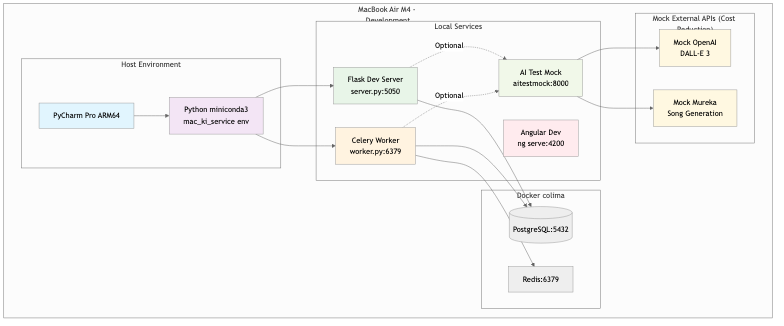
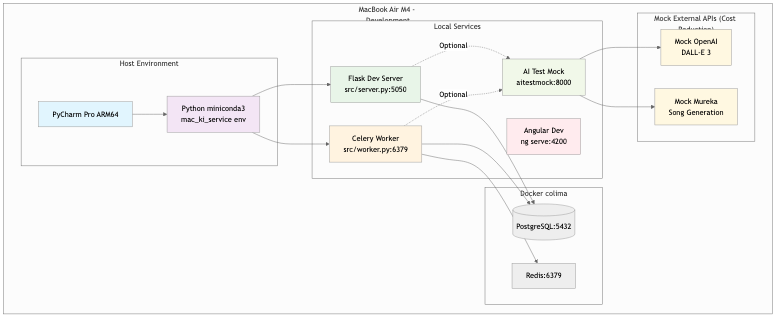
layout change to side menu

diff --git a/docs/README.md b/docs/README.md
@@ -107,7 +107,7 @@ Das Mac KI-Service System ist eine persönliche KI-basierte Multimedia-Generieru
 
 ### 3.1 Fachlicher Kontext
 
-![Fachlicher Kontext](images/3.1_fachlicher_kontext.png)
+<img src="images/3.1_fachlicher_kontext.png" alt="Fachlicher Kontext" style="zoom:150%;" />
 
 *Abbildung 3.1: Fachlicher Kontext - Überblick über die wichtigsten Akteure und Systeme*
 
@@ -135,12 +135,15 @@ Das Mac KI-Service System ist eine persönliche KI-basierte Multimedia-Generieru
 - **Containerisiert**: Docker für konsistente Deployments
 
 ### 4.2 Technologie-Stack
-- **Frontend**: Angular 18.2.13 + TypeScript + Angular Material + SCSS
-- **Backend**: Python Flask + SQLAlchemy + Alembic
-- **Async Processing**: Celery + Redis
-- **Database**: PostgreSQL 15
-- **Proxy**: Nginx (Produktion)
-- **Container**: Docker + Docker Compose
+- **Frontend**: Angular 18.2.13 + TypeScript + Angular Material + SCSS + RxJS
+- **Backend**: Python Flask 3.1.2 + SQLAlchemy 2.0 + Pydantic 2.0 + Alembic 1.13
+- **API Documentation**: Flask-APISpec + OpenAPI/Swagger
+- **Authentication**: Flask-CORS + PyJWT + BCrypt
+- **Async Processing**: Celery 5.4 + Redis 5.0
+- **Database**: PostgreSQL 15 + psycopg2-binary
+- **Web Server**: Gunicorn (Produktion), Flask Dev Server (Entwicklung)
+- **Proxy**: Nginx 1.23.3 (Produktion)
+- **Container**: Docker + Docker Compose (Colima auf macOS)
 
 ---
 
@@ -148,7 +151,7 @@ Das Mac KI-Service System ist eine persönliche KI-basierte Multimedia-Generieru
 
 ### 5.1 Systemübersicht
 
-![Systemübersicht](images/5.1_systemuebersicht.png)
+<img src="images/5.1_systemuebersicht.png" alt="Systemübersicht" style="zoom:150%;" />
 
 *Abbildung 5.1: Systemübersicht - Architektonische Schichten und Komponenten*
 
@@ -156,40 +159,52 @@ Das Mac KI-Service System ist eine persönliche KI-basierte Multimedia-Generieru
 
 #### 5.2.1 aiwebui (Frontend)
 
-![Angular Projektstruktur](images/5.2.1_angular_projektstruktur.png)
+<img src="images/5.2.1_angular_projektstruktur.png" alt="Angular Projektstruktur" style="zoom: 67%;" />
 
-*Abbildung 5.2.1: Angular Projektstruktur - Komponenten, Services und Module des Frontend*
+*Abbildung 5.2.1: Angular Projektstruktur - Komponenten, Services und Module dess Frontend*
 
-- **Technologie**: Angular 18 + TypeScript + SCSS
-- **Komponenten**:
-  - `image-generator`: UI für Bildgenerierung
-  - `image-view`: Anzeige generierter Bilder
-  - `song-generator`: UI für Musikgenerierung
-  - `song-view`: Anzeige generierter Songs
-  - `song-profil`: Mureka Account-Informationen
-  - `settings`: Systemkonfiguration und Einstellungen
-  - `prompt-templates`: Template-Management für Prompts
+- **Technologie**: Angular 18.2.13 + TypeScript + SCSS + Angular Material
+- **Struktur**:
+  ```
+  src/app/
+  ├── components/    # Shared Components
+  ├── pages/         # Feature Pages
+  │   ├── image-generator/    # UI für Bildgenerierung
+  │   ├── image-view/         # Anzeige generierter Bilder
+  │   ├── song-generator/     # UI für Musikgenerierung
+  │   ├── song-view/          # Anzeige generierter Songs
+  │   ├── song-profile/       # Mureka Account-Informationen
+  │   ├── user-profile/       # Benutzerprofilseite
+  │   └── prompt-templates/   # Template-Management für Prompts
+  ├── services/      # API Services & Business Logic
+  ├── models/        # TypeScript Interfaces & Models
+  ├── pipes/         # Custom Angular Pipes
+  ├── guards/        # Route Guards
+  ├── interceptors/  # HTTP Interceptors
+  └── auth/          # Authentication Logic
+  ```
 - **Services**: API-Integration, Konfiguration, Prompt-Management, Notifications
 - **Shared Components**: Header, Footer, Detail-Panels, Audio-Player, Progress-Overlay
-- **Build**: `npm run build:prod` → Deployment nach `forwardproxy/html`
+- **Dependencies**: Angular Material, RxJS, ngx-cookie-service, compromise
+- **Build**: `npm run build:prod` → Deployment nach `forwardproxy/html/aiwebui`
 
 #### 5.2.2 aiproxysrv (Backend API)
-- **Technologie**: Python Flask + SQLAlchemy
+- **Technologie**: Python Flask + SQLAlchemy + Pydantic
 - **Struktur**:
   ```
   src/
-  ├── api/           # Controllers & Routes
-  │   ├── app.py     # Flask App Factory
-  │   ├── image_routes.py    # Bildgenerierung API
-  │   ├── song_routes.py     # Musikgenerierung API
-  │   ├── chat_routes.py     # Chat API
-  │   ├── prompt_routes.py   # Prompt Templates API
-  │   └── redis_routes.py    # Redis Management API
-  ├── db/            # Models & Database
-  ├── celery_app/    # Async Processing
-  ├── config/        # Konfiguration
-  ├── mureka/        # Mureka Integration
-  └── alembic/       # DB Migrations
+  ├── api/           # API Layer (Business Logic & Routing)
+  ├── business/      # Core Business Logic Services
+  ├── db/            # Models & Database Connection
+  ├── schemas/       # Pydantic Data Schemas
+  ├── celery_app/    # Async Processing (Mureka API)
+  ├── config/        # Configuration (reads .env)
+  ├── utils/         # Utility Functions
+  ├── mureka/        # Mureka Integration Functions
+  ├── alembic/       # DB Migrations
+  ├── server.py      # Dev Server (PyCharm)
+  ├── wsgi.py        # Prod Entry (Gunicorn)
+  └── worker.py      # Celery Worker
   ```
 
 #### 5.2.3 aitestmock (Test Mock Server)
@@ -243,8 +258,8 @@ MacBook Air M4 (32GB RAM)
 ├── Docker colima
 │   └── PostgreSQL Container (Port 5432)
 ├── Local Services
-│   ├── Flask Dev Server (server.py)
-│   ├── Celery Worker (worker.py)
+│   ├── Flask Dev Server (src/server.py)
+│   ├── Celery Worker (src/worker.py)
 │   ├── Angular Dev Server (ng serve)
 │   └── AI Test Mock Server (aitestmock) - Optional für Kostensenkung
 └── Configuration
@@ -516,13 +531,13 @@ services:
 **Migration Commands:**
 ```bash
 # Neue Migration erstellen
-alembic revision --autogenerate -m "description"
+cd src && alembic revision --autogenerate -m "description"
 
 # Migrationen anwenden
-alembic upgrade head
+cd src && alembic upgrade head
 
 # Aktuelle Version prüfen
-alembic current
+cd src && alembic current
 ```
 
 **Wichtige Überlegungen:**
@@ -534,6 +549,6 @@ alembic current
 ---
 
 *Dokument erstellt am: 01.09.2025*
-*Zuletzt aktualisiert: 23.09.2025*
+*Zuletzt aktualisiert: 29.09.2025*
 *Version: 1.5*
 *Autor: Rob (rob.wellinger@gmail.com)*
